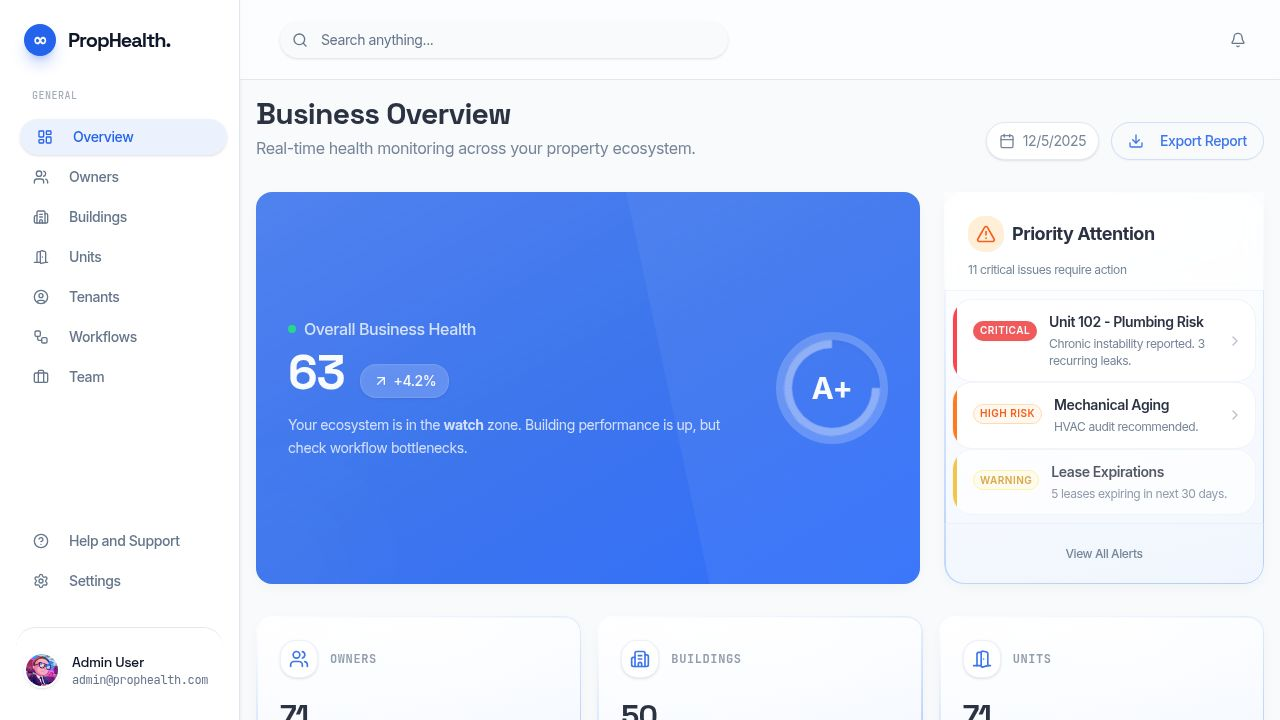
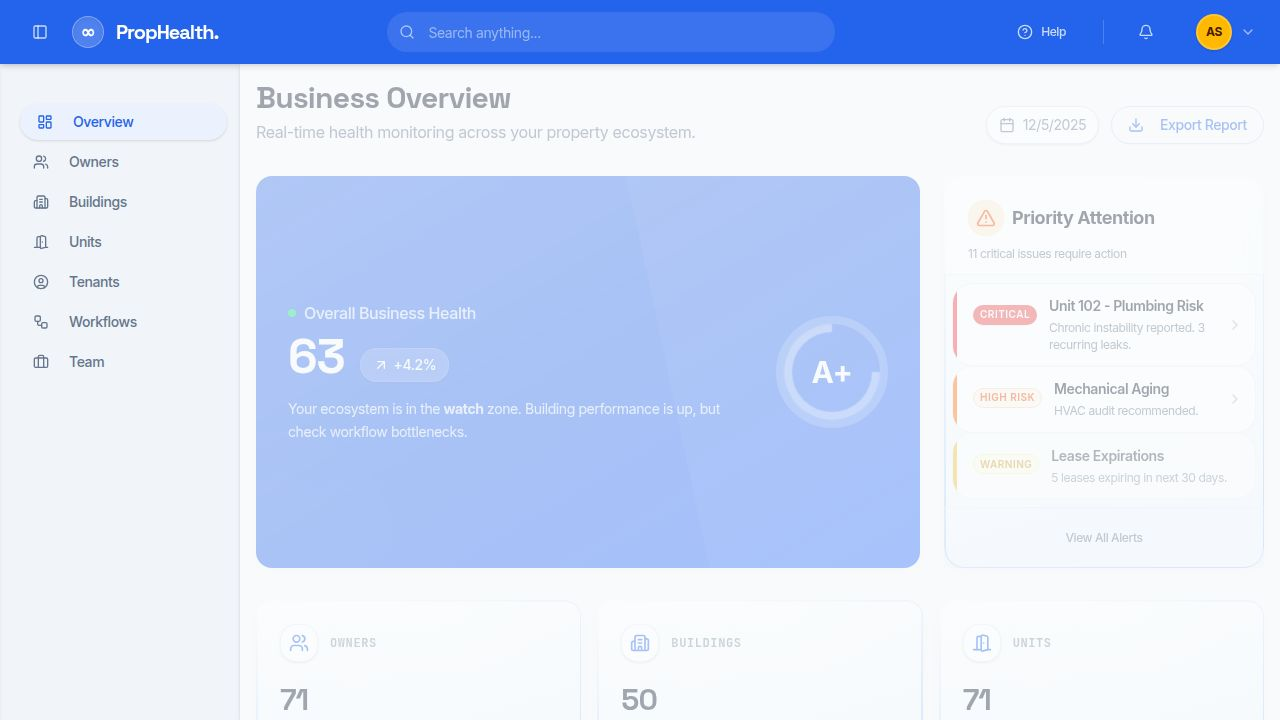
Update navigation bar and sidebar layout for improved user experience
Integrate sidebar toggle and logo into the new full-width header, utilizing primary color theme and enhancing navigation layout with a centered search bar and right-aligned user-specific actions.

Replit-Commit-Author: Agent
Replit-Commit-Session-Id: 08f3e6e7-d035-4335-9603-aadb31644a97
Replit-Commit-Checkpoint-Type: full_checkpoint
Replit-Commit-Event-Id: 9854c055-a165-4b9f-801f-fb8845aa0243
Replit-Commit-Screenshot-Url: https://storage.googleapis.com/screenshot-production-us-central1/65e48390-e568-4524-a78e-c642c6230a67/08f3e6e7-d035-4335-9603-aadb31644a97/EIgsrGY
Replit-Helium-Checkpoint-Created: true

diff --git a/client/src/components/layout/DashboardLayout.tsx b/client/src/components/layout/DashboardLayout.tsx
@@ -17,7 +17,8 @@ import {
   ChevronRight,
   PanelLeftClose,
   PanelLeftOpen,
-  PanelLeft
+  PanelLeft,
+  ChevronDown
 } from "lucide-react";
 import { useState } from "react";
 import { Button } from "@/components/ui/button";
@@ -36,10 +37,7 @@ const NAV_ITEMS = [
   { label: "Team", icon: Briefcase, href: "/team" },
 ];
 
-const BOTTOM_NAV_ITEMS = [
-  { label: "Help and Support", icon: HelpCircle, href: "/help" },
-  { label: "Settings", icon: Settings, href: "/settings" },
-];
+// Removed BOTTOM_NAV_ITEMS as they are moving to header
 
 export function DashboardLayout({ children }: { children: React.ReactNode }) {
   const [location] = useLocation();
@@ -86,80 +84,79 @@ export function DashboardLayout({ children }: { children: React.ReactNode }) {
 
   const NavContent = ({ collapsed = false }: { collapsed?: boolean }) => (
     <div className="flex flex-col h-full py-6">
-      <div className={cn("mb-8 flex transition-all duration-300", collapsed ? "flex-col items-center justify-center gap-4 px-2" : "items-center justify-between px-6")}>
-        <div className="flex items-center gap-3 group cursor-pointer">
-          <div className="h-8 w-8 rounded-xl bg-primary text-primary-foreground flex items-center justify-center font-bold text-lg shadow-lg shadow-primary/30 transition-transform group-hover:scale-105 shrink-0">
-            ∞
-          </div>
-          {!collapsed && (
-            <span className="font-display font-bold text-xl tracking-tighter animate-in fade-in slide-in-from-left-2 duration-300">
-              PropHealth.
-            </span>
-          )}
-        </div>
-        
-        <Button 
-          variant="ghost" 
-          size="icon" 
-          onClick={() => setIsCollapsed(!isCollapsed)}
-          className={cn("text-muted-foreground hover:text-primary hover:bg-primary/10 hidden md:flex", collapsed && "h-8 w-8")}
-        >
-           <PanelLeft className="h-5 w-5" />
-        </Button>
-      </div>
-
-      <div className="flex-1 px-4 space-y-1">
-        {collapsed && <div className="h-4 mb-4" />} {/* Spacer for alignment */}
-        
+      {/* Removed Logo Area */}
+      <div className="flex-1 px-4 space-y-1 mt-4">
         {NAV_ITEMS.map((item) => (
           <NavItem key={item.href} item={item} collapsed={collapsed} />
         ))}
       </div>
-
-      <div className="px-4 mt-auto space-y-1">
-        {BOTTOM_NAV_ITEMS.map((item) => (
-          <NavItem key={item.href} item={item} collapsed={collapsed} />
-        ))}
-        
-        <div className={cn(
-          "mt-6 pt-6 border-t flex items-center gap-3 cursor-pointer hover:bg-sidebar-accent/30 rounded-xl transition-all duration-200",
-          collapsed ? "justify-center px-0 py-4 mx-0" : "px-2 py-2"
-        )}>
-          <Avatar className="h-9 w-9 border-2 border-white shadow-sm shrink-0">
-            <AvatarImage src="https://github.com/shadcn.png" />
-            <AvatarFallback>AD</AvatarFallback>
-          </Avatar>
-          {!collapsed && (
-            <div className="flex-1 overflow-hidden animate-in fade-in slide-in-from-left-2 duration-300">
-              <p className="text-sm font-medium truncate font-display">Admin User</p>
-              <p className="text-xs text-muted-foreground truncate font-mono">admin@prophealth.com</p>
-            </div>
-          )}
-        </div>
-      </div>
+      {/* Removed User Profile and Bottom Nav */}
     </div>
   );
 
   return (
-    <div className="min-h-screen bg-background font-sans flex">
-      {/* Desktop Sidebar */}
-      <div 
-        className={cn(
-          "hidden md:block border-r bg-slate-100 sticky top-0 h-screen overflow-y-auto shadow-sm z-10 transition-all duration-300 ease-in-out",
-          isCollapsed ? "w-[80px]" : "w-[240px]"
-        )}
-      >
-        <NavContent collapsed={isCollapsed} />
-      </div>
+    <div className="flex flex-col h-screen bg-background font-sans overflow-hidden">
+      {/* Full Width Header */}
+      <header className="h-16 shrink-0 bg-primary px-6 flex items-center justify-between z-20 shadow-md text-primary-foreground">
+        
+        {/* Left: Logo & Toggle */}
+        <div className="flex items-center gap-4">
+          <Button 
+            variant="ghost" 
+            size="icon" 
+            onClick={() => setIsCollapsed(!isCollapsed)}
+            className="text-primary-foreground/80 hover:text-primary-foreground hover:bg-primary-foreground/10 hidden md:flex h-8 w-8"
+          >
+             <PanelLeft className="h-5 w-5" />
+          </Button>
 
-      <div className="flex-1 flex flex-col min-w-0">
-        {/* Top Header */}
-        <header className="h-16 md:h-20 border-b bg-card/50 backdrop-blur-sm px-6 flex items-center justify-between sticky top-0 z-20">
-          <div className="md:hidden">
+          <div className="flex items-center gap-3 group cursor-pointer">
+            <div className="h-8 w-8 rounded-xl bg-white/20 text-white flex items-center justify-center font-bold text-lg shadow-inner backdrop-blur-sm transition-transform group-hover:scale-105 shrink-0 border border-white/30">
+              ∞
+            </div>
+            <span className="font-display font-bold text-xl tracking-tighter text-white">
+              PropHealth.
+            </span>
+          </div>
+        </div>
+
+        {/* Center: Search */}
+        <div className="flex-1 flex justify-center max-w-2xl px-8">
+          <div className="relative w-full max-w-md group">
+            <Search className="absolute left-3 top-1/2 -translate-y-1/2 h-4 w-4 text-primary-foreground/60 group-focus-within:text-primary-foreground transition-colors" />
+            <Input 
+              placeholder="Search anything..." 
+              className="pl-10 bg-white/10 border-transparent text-primary-foreground placeholder:text-primary-foreground/50 focus:bg-white/20 focus:border-white/30 transition-all rounded-xl shadow-none hover:bg-white/15 h-10 w-full"
+            />
+          </div>
+        </div>
+
+        {/* Right: Help & User */}
+        <div className="flex items-center gap-4 md:gap-6">
+          <Button variant="ghost" size="sm" className="text-primary-foreground/80 hover:text-white hover:bg-white/10 gap-2 hidden sm:flex">
+            <HelpCircle className="h-5 w-5" />
+            <span>Help</span>
+          </Button>
+          
+          <div className="h-6 w-px bg-white/20 hidden sm:block" />
+
+          <Button variant="ghost" size="icon" className="rounded-full text-primary-foreground/80 hover:text-white hover:bg-white/10 transition-colors">
+             <Bell className="h-5 w-5" />
+          </Button>
+
+          <div className="flex items-center gap-2 cursor-pointer pl-2">
+            <Avatar className="h-9 w-9 border-2 border-white/20 shadow-sm shrink-0 bg-amber-400 text-amber-950">
+              <AvatarFallback className="bg-amber-400 text-amber-950 font-bold text-xs">AS</AvatarFallback>
+            </Avatar>
+            <ChevronDown className="h-4 w-4 text-primary-foreground/60" />
+          </div>
+          
+          {/* Mobile Menu Trigger */}
+          <div className="md:hidden ml-2">
             <Sheet open={sidebarOpen} onOpenChange={setSidebarOpen}>
               <SheetTrigger asChild>
-                <Button variant="ghost" size="icon">
-                  <Menu className="h-5 w-5" />
+                <Button variant="ghost" size="icon" className="text-primary-foreground hover:bg-white/10">
+                  <Menu className="h-6 w-6" />
                 </Button>
               </SheetTrigger>
               <SheetContent side="left" className="p-0 w-[240px] bg-sidebar border-r-0">
@@ -167,29 +164,23 @@ export function DashboardLayout({ children }: { children: React.ReactNode }) {
               </SheetContent>
             </Sheet>
           </div>
+        </div>
+      </header>
 
-          {/* Search Bar */}
-          <div className="hidden md:flex items-center w-full max-w-md ml-4">
-            <div className="relative w-full group">
-              <Search className="absolute left-3 top-1/2 -translate-y-1/2 h-4 w-4 text-muted-foreground group-focus-within:text-primary transition-colors" />
-              <Input 
-                placeholder="Search anything..." 
-                className="pl-10 bg-background border-transparent focus:bg-white focus:border-primary/20 transition-all rounded-xl shadow-sm hover:shadow-md"
-              />
-            </div>
-          </div>
-
-          {/* Right Actions */}
-          <div className="flex items-center gap-2 md:gap-4">
-            <Button variant="ghost" size="icon" className="rounded-full text-muted-foreground hover:text-primary hover:bg-primary/10 transition-colors">
-              <Bell className="h-5 w-5" />
-            </Button>
-          </div>
-        </header>
+      <div className="flex flex-1 overflow-hidden">
+        {/* Desktop Sidebar */}
+        <div 
+          className={cn(
+            "hidden md:block border-r bg-slate-100 overflow-y-auto shadow-inner z-10 transition-all duration-300 ease-in-out",
+            isCollapsed ? "w-[80px]" : "w-[240px]"
+          )}
+        >
+          <NavContent collapsed={isCollapsed} />
+        </div>
 
         {/* Main Content */}
-        <main className="flex-1 p-4 overflow-auto">
-          <div className="w-full space-y-6">
+        <main className="flex-1 p-4 overflow-auto bg-background">
+          <div className="w-full space-y-6 pb-20">
             {children}
           </div>
         </main>
